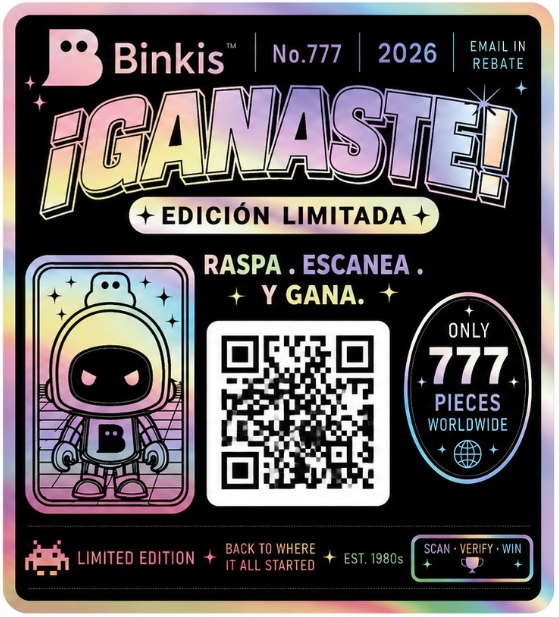
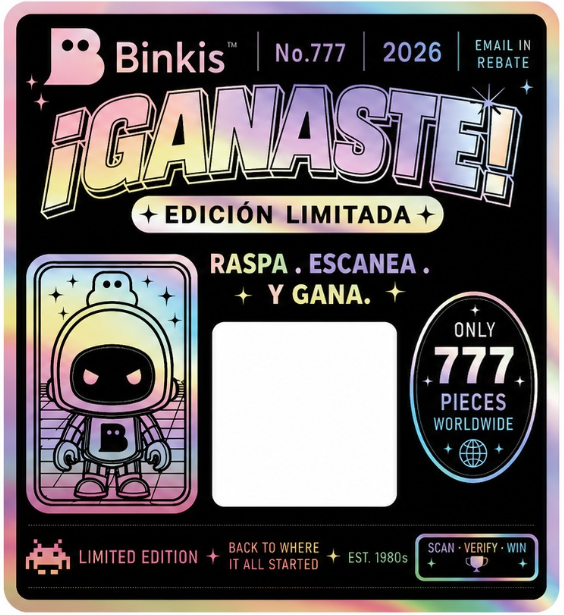
Update hologram artwork and align QR to new blank square
New binkis.png (564x615) has an empty 182x182 white square for the QR;
move the live QR overlay to match it (left 37.77%, top 52.52%).

Changed region(s): [[0.0, 0.0, 0.9732, 1.0], [0.9428, 0.7724, 0.9732, 0.8033]]

diff --git a/components/public/HologramCard.tsx b/components/public/HologramCard.tsx
@@ -7,10 +7,10 @@ interface HologramCardProps {
   collectionNumber: string;
 }
 
-// Position of the QR's white square inside public/binkis.png, as a percentage
-// of the artwork. The static QR in the art is a placeholder; we overlay the
-// real per-code QR on top of it so each piece scans to its own /v/<code>.
-const QR_BOX = { left: "36%", top: "51.6%", width: "29.4%", height: "29.8%" };
+// Position of the blank QR square inside public/binkis.png, as a percentage of
+// the artwork (564x615; the square is 182x182 px). We render the real per-code
+// QR into this slot so each piece scans to its own /v/<code>.
+const QR_BOX = { left: "37.77%", top: "52.52%", width: "32.27%", height: "29.59%" };
 
 export function HologramCard({ code, validationUrl }: HologramCardProps) {
   return (
